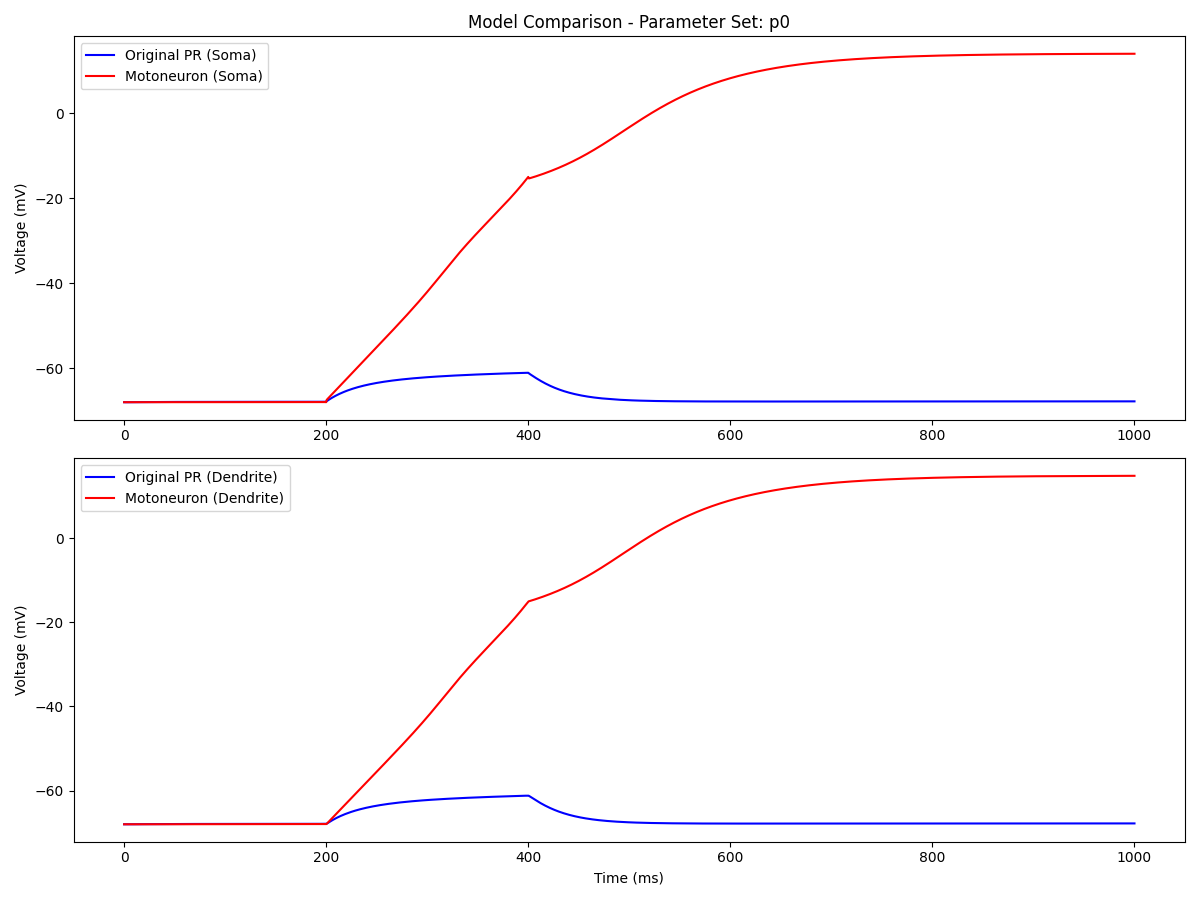
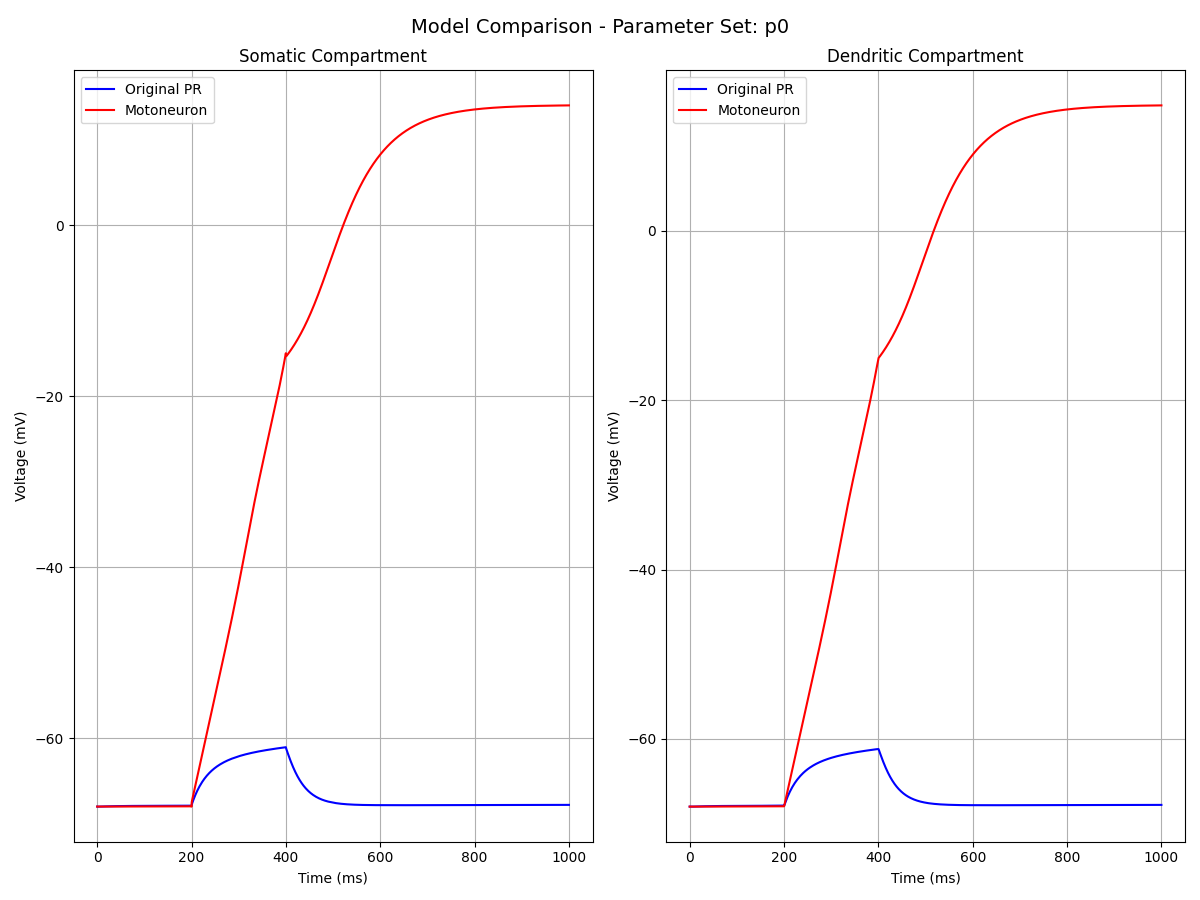
Comparison on default parameter and Motoneuron

diff --git a/PRmodel_Motoneuron/compare_models.py b/PRmodel_Motoneuron/compare_models.py
@@ -9,6 +9,107 @@ from PRmodel_Diffrax.PinskyRinzel import PinskyRinzel
 from PRmodel_Motoneuron import MotoneuronModel
 
 
+def compare_with_defaults(yaml_file, param_set='20230210_84'):
+    """Compare a motoneuron model with custom parameters to one with default parameters."""
+    # Create motoneuron model with parameters from YAML
+    motoneuron_model = MotoneuronModel(yaml_file=yaml_file, param_set=param_set)
+    
+    # Create a default motoneuron model (no yaml file, use PR defaults)
+    default_model = MotoneuronModel()
+    
+    # Print parameters for comparison
+    print("\nComparison with Default Parameters:")
+    print("-" * 50)
+    print(f"{'Parameter':<20} {'Default':<15} {'Motoneuron':<15}")
+    print("-" * 50)
+    
+    # Get motoneuron parameters
+    motoneuron_params = motoneuron_model.params
+    default_params = default_model.params
+    
+    # Compare key parameters
+    params_to_compare = [
+        ('g_c', default_model.g_c, motoneuron_params['g_c']),
+        ('C_m', default_model.C_m, motoneuron_params['C_m']),
+        ('p', default_model.p, motoneuron_params['p']),
+        ('g_L (soma)', default_model.g_L, motoneuron_params['g_L_soma']),
+        ('g_L (dend)', default_model.g_L, motoneuron_params['g_L_dend']),
+        ('g_Na', default_model.g_Na, motoneuron_params['g_Na']),
+        ('g_DR', default_model.g_DR, motoneuron_params['g_DR']),
+        ('g_Ca', default_model.g_Ca, motoneuron_params['g_Ca']),
+        ('g_AHP', default_model.g_AHP, motoneuron_params['g_AHP']),
+        ('g_C', default_model.g_C, motoneuron_params['g_C']),
+        ('E_L', default_model.E_L, motoneuron_params['E_L']),
+        ('E_Na', default_model.E_Na, motoneuron_params['E_Na']),
+        ('E_K', default_model.E_K, motoneuron_params['E_K']),
+        ('E_Ca', default_model.E_Ca, motoneuron_params['E_Ca']),
+    ]
+    
+    for name, def_val, moto_val in params_to_compare:
+        print(f"{name:<20} {def_val:<15.6f} {moto_val:<15.6f}")
+    
+    # Simulation parameters
+    t_dur = 1000  # ms
+    I_stim = 0.5  # nA
+    stim_start = 200  # ms
+    stim_end = 400  # ms
+    
+    # Run simulations
+    default_sol = default_model.solve(
+        t_dur=t_dur,
+        I_stim=I_stim,
+        stim_start=stim_start,
+        stim_end=stim_end
+    )
+    
+    motoneuron_sol = motoneuron_model.solve(
+        t_dur=t_dur,
+        I_stim=I_stim,
+        stim_start=stim_start,
+        stim_end=stim_end
+    )
+    
+    # Compare spike counts and timing
+    default_spikes = default_model.get_spike_times(default_sol)
+    motoneuron_spikes = motoneuron_model.get_spike_times(motoneuron_sol)
+    
+    print("\nSpiking Behavior:")
+    print(f"Default model: {len(default_spikes)} spikes")
+    print(f"Motoneuron model with {param_set}: {len(motoneuron_spikes)} spikes")
+    
+    # Plot results
+    plt.figure(figsize=(12, 10))
+    
+    # Plot Default model
+    plt.subplot(2, 1, 1)
+    plt.plot(default_sol.ts, default_sol.ys[:, 0], 'g-', label='Default (Soma)')
+    plt.plot(default_sol.ts, default_sol.ys[:, 1], 'g--', label='Default (Dendrite)')
+    plt.xlabel('Time (ms)')
+    plt.ylabel('Voltage (mV)')
+    plt.title('Default Parameters (Pinsky-Rinzel)')
+    plt.axvspan(stim_start, stim_end, alpha=0.2, color='gray', label='Stimulus')
+    plt.legend()
+    plt.grid(True)
+    
+    # Plot Motoneuron model
+    plt.subplot(2, 1, 2)
+    plt.plot(motoneuron_sol.ts, motoneuron_sol.ys[:, 0], 'r-', label='Motoneuron (Soma)')
+    plt.plot(motoneuron_sol.ts, motoneuron_sol.ys[:, 1], 'r--', label='Motoneuron (Dendrite)')
+    plt.xlabel('Time (ms)')
+    plt.ylabel('Voltage (mV)')
+    plt.title(f'Motoneuron Model with {param_set} Parameters')
+    plt.axvspan(stim_start, stim_end, alpha=0.2, color='gray', label='Stimulus')
+    plt.legend()
+    plt.grid(True)
+    
+    plt.suptitle('Comparison of Default vs Motoneuron Parameters', fontsize=14)
+    plt.tight_layout()
+    plt.savefig(f'default_vs_motoneuron_{param_set}.png')
+    plt.show()
+    
+    return default_model, motoneuron_model, default_sol, motoneuron_sol
+
+
 def compare_models(yaml_file, param_set='20230210_84'):
     """
     Compare the original Pinsky-Rinzel model with the motoneuron model.
@@ -83,33 +184,62 @@ def compare_models(yaml_file, param_set='20230210_84'):
     print(f"Motoneuron model: {len(motoneuron_spikes)} spikes")
     
     # Plot results
-    plt.figure(figsize=(12, 7))
+    plt.figure(figsize=(12, 10))
     
-    # Create two subplots - one for soma and one for dendrite
-    plt.subplot(1, 2, 1)
-    plt.plot(original_sol.ts, original_sol.ys[:, 0], 'b-', label='Original PR')
-    plt.plot(motoneuron_sol.ts, motoneuron_sol.ys[:, 0], 'r-', label='Motoneuron')
+    # Plot 1: Original model with soma and dendrite on same graph
+    plt.subplot(2, 1, 1)
+    plt.plot(original_sol.ts, original_sol.ys[:, 0], 'b-', label='Original PR (Soma)')
+    plt.plot(original_sol.ts, original_sol.ys[:, 1], 'b--', label='Original PR (Dendrite)')
     plt.xlabel('Time (ms)')
     plt.ylabel('Voltage (mV)')
-    plt.title('Somatic Compartment')
+    plt.title('Original Pinsky-Rinzel Model')
     plt.axvspan(stim_start, stim_end, alpha=0.2, color='gray', label='Stimulus')
     plt.legend()
     plt.grid(True)
     
-    plt.subplot(1, 2, 2)
-    plt.plot(original_sol.ts, original_sol.ys[:, 1], 'b-', label='Original PR')
-    plt.plot(motoneuron_sol.ts, motoneuron_sol.ys[:, 1], 'r-', label='Motoneuron')
+    # Plot 2: Motoneuron model with soma and dendrite on same graph
+    plt.subplot(2, 1, 2)
+    plt.plot(motoneuron_sol.ts, motoneuron_sol.ys[:, 0], 'r-', label='Motoneuron (Soma)')
+    plt.plot(motoneuron_sol.ts, motoneuron_sol.ys[:, 1], 'r--', label='Motoneuron (Dendrite)')
     plt.xlabel('Time (ms)')
     plt.ylabel('Voltage (mV)')
-    plt.title('Dendritic Compartment')
-    plt.axvspan(stim_start, stim_end, alpha=0.2, color='gray')
+    plt.title(f'Motoneuron Model with {param_set} Parameters')
+    plt.axvspan(stim_start, stim_end, alpha=0.2, color='gray', label='Stimulus')
     plt.legend()
     plt.grid(True)
     
     plt.suptitle('Comparison of Original Pinsky-Rinzel and Motoneuron Models', fontsize=14)
-    
     plt.tight_layout()
     plt.savefig('model_comparison.png')
+    
+    # Create a separate figure comparing soma vs soma and dendrite vs dendrite
+    plt.figure(figsize=(12, 10))
+    
+    # Plot 1: Compare soma traces
+    plt.subplot(2, 1, 1)
+    plt.plot(original_sol.ts, original_sol.ys[:, 0], 'b-', label='Original PR (Soma)')
+    plt.plot(motoneuron_sol.ts, motoneuron_sol.ys[:, 0], 'r-', label='Motoneuron (Soma)')
+    plt.xlabel('Time (ms)')
+    plt.ylabel('Voltage (mV)')
+    plt.title('Comparison of Somatic Compartments')
+    plt.axvspan(stim_start, stim_end, alpha=0.2, color='gray', label='Stimulus')
+    plt.legend()
+    plt.grid(True)
+    
+    # Plot 2: Compare dendrite traces
+    plt.subplot(2, 1, 2)
+    plt.plot(original_sol.ts, original_sol.ys[:, 1], 'b-', label='Original PR (Dendrite)')
+    plt.plot(motoneuron_sol.ts, motoneuron_sol.ys[:, 1], 'r-', label='Motoneuron (Dendrite)')
+    plt.xlabel('Time (ms)')
+    plt.ylabel('Voltage (mV)')
+    plt.title('Comparison of Dendritic Compartments')
+    plt.axvspan(stim_start, stim_end, alpha=0.2, color='gray', label='Stimulus')
+    plt.legend()
+    plt.grid(True)
+    
+    plt.suptitle('Component-wise Comparison of Models', fontsize=14)
+    plt.tight_layout()
+    plt.savefig('component_comparison.png')
     plt.show()
     
     return original_model, motoneuron_model, original_sol, motoneuron_sol
@@ -126,29 +256,32 @@ if __name__ == "__main__":
         print(f"\n\nComparing models with parameter set: {param_set}")
         original_model, motoneuron_model, original_sol, motoneuron_sol = compare_models(yaml_file, param_set)
         
-        # Save a figure with this specific parameter set name
-        plt.figure(figsize=(12, 9))
+        # Save a figure with this specific parameter set name - with soma and dendrite together
+        plt.figure(figsize=(12, 10))
         
-        plt.subplot(1, 2, 1)
-        plt.plot(original_sol.ts, original_sol.ys[:, 0], 'b-', label='Original PR')
-        plt.plot(motoneuron_sol.ts, motoneuron_sol.ys[:, 0], 'r-', label='Motoneuron')
+        # Plot Original PR with soma and dendrite on same graph
+        plt.subplot(2, 1, 1)
+        plt.plot(original_sol.ts, original_sol.ys[:, 0], 'b-', label='Original PR (Soma)')
+        plt.plot(original_sol.ts, original_sol.ys[:, 1], 'b--', label='Original PR (Dendrite)')
         plt.xlabel('Time (ms)')
         plt.ylabel('Voltage (mV)')
-        plt.title('Somatic Compartment')
+        plt.title('Original Pinsky-Rinzel Model')
+        plt.axvspan(stim_start, stim_end, alpha=0.2, color='gray', label='Stimulus')
         plt.legend()
         plt.grid(True)
         
-        plt.subplot(1, 2, 2)
-        plt.plot(original_sol.ts, original_sol.ys[:, 1], 'b-', label='Original PR')
-        plt.plot(motoneuron_sol.ts, motoneuron_sol.ys[:, 1], 'r-', label='Motoneuron')
+        # Plot Motoneuron with soma and dendrite on same graph
+        plt.subplot(2, 1, 2)
+        plt.plot(motoneuron_sol.ts, motoneuron_sol.ys[:, 0], 'r-', label='Motoneuron (Soma)')
+        plt.plot(motoneuron_sol.ts, motoneuron_sol.ys[:, 1], 'r--', label='Motoneuron (Dendrite)')
         plt.xlabel('Time (ms)')
         plt.ylabel('Voltage (mV)')
-        plt.title('Dendritic Compartment')
+        plt.title(f'Motoneuron Model with {param_set} Parameters')
+        plt.axvspan(stim_start, stim_end, alpha=0.2, color='gray', label='Stimulus')
         plt.legend()
         plt.grid(True)
         
-        plt.suptitle(f'Model Comparison - Parameter Set: {param_set}', fontsize=14)
-        
+        plt.suptitle(f'Comparison - Parameter Set: {param_set}', fontsize=14)
         plt.tight_layout()
         plt.savefig(f'model_comparison_{param_set}.png')
         plt.close()  # Close the figure to save memory

diff --git a/PRmodel_Motoneuron/compare_defaults.py b/PRmodel_Motoneuron/compare_defaults.py
@@ -1,0 +1,153 @@
+import os
+import sys
+import matplotlib.pyplot as plt
+import numpy as np
+
+# Add path to allow imports
+sys.path.append(os.path.dirname(os.path.dirname(os.path.abspath(__file__))))
+from PRmodel_Diffrax.PinskyRinzel import PinskyRinzel
+from PRmodel_Motoneuron import MotoneuronModel
+
+def compare_with_defaults(yaml_file, param_set='20230210_84'):
+    """Compare a motoneuron model with custom parameters to one with default parameters."""
+    # Create motoneuron model with parameters from YAML
+    motoneuron_model = MotoneuronModel(yaml_file=yaml_file, param_set=param_set)
+    
+    # Create a default motoneuron model (no yaml file, use PR defaults)
+    default_model = MotoneuronModel()
+    
+    # Print parameters for comparison
+    print("\nComparison with Default Parameters:")
+    print("-" * 50)
+    print(f"{'Parameter':<20} {'Default':<15} {'Motoneuron':<15}")
+    print("-" * 50)
+    
+    # Get motoneuron parameters
+    motoneuron_params = motoneuron_model.params
+    default_params = default_model.params
+    
+    # Compare key parameters
+    params_to_compare = [
+        ('g_c', default_model.g_c, motoneuron_params['g_c']),
+        ('C_m', default_model.C_m, motoneuron_params['C_m']),
+        ('p', default_model.p, motoneuron_params['p']),
+        ('g_L (soma)', default_model.g_L, motoneuron_params['g_L_soma']),
+        ('g_L (dend)', default_model.g_L, motoneuron_params['g_L_dend']),
+        ('g_Na', default_model.g_Na, motoneuron_params['g_Na']),
+        ('g_DR', default_model.g_DR, motoneuron_params['g_DR']),
+        ('g_Ca', default_model.g_Ca, motoneuron_params['g_Ca']),
+        ('g_AHP', default_model.g_AHP, motoneuron_params['g_AHP']),
+        ('g_C', default_model.g_C, motoneuron_params['g_C']),
+        ('E_L', default_model.E_L, motoneuron_params['E_L']),
+        ('E_Na', default_model.E_Na, motoneuron_params['E_Na']),
+        ('E_K', default_model.E_K, motoneuron_params['E_K']),
+        ('E_Ca', default_model.E_Ca, motoneuron_params['E_Ca']),
+    ]
+    
+    for name, def_val, moto_val in params_to_compare:
+        print(f"{name:<20} {def_val:<15.6f} {moto_val:<15.6f}")
+    
+    # Simulation parameters
+    t_dur = 1000  # ms
+    I_stim = 0.5  # nA
+    stim_start = 200  # ms
+    stim_end = 400  # ms
+    
+    # Run simulations
+    default_sol = default_model.solve(
+        t_dur=t_dur,
+        I_stim=I_stim,
+        stim_start=stim_start,
+        stim_end=stim_end
+    )
+    
+    motoneuron_sol = motoneuron_model.solve(
+        t_dur=t_dur,
+        I_stim=I_stim,
+        stim_start=stim_start,
+        stim_end=stim_end
+    )
+    
+    # Compare spike counts and timing
+    default_spikes = default_model.get_spike_times(default_sol)
+    motoneuron_spikes = motoneuron_model.get_spike_times(motoneuron_sol)
+    
+    print("\nSpiking Behavior:")
+    print(f"Default model: {len(default_spikes)} spikes")
+    print(f"Motoneuron model with {param_set}: {len(motoneuron_spikes)} spikes")
+    
+    # Plot results - both soma and dendrite on the same graph for each model
+    plt.figure(figsize=(12, 10))
+    
+    # Plot 1: Default model with soma and dendrite on same graph
+    plt.subplot(2, 1, 1)
+    plt.plot(default_sol.ts, default_sol.ys[:, 0], 'g-', label='Default (Soma)')
+    plt.plot(default_sol.ts, default_sol.ys[:, 1], 'g--', label='Default (Dendrite)')
+    plt.xlabel('Time (ms)')
+    plt.ylabel('Voltage (mV)')
+    plt.title('Default Parameters (Pinsky-Rinzel)')
+    plt.axvspan(stim_start, stim_end, alpha=0.2, color='gray', label='Stimulus')
+    plt.legend()
+    plt.grid(True)
+    
+    # Plot 2: Motoneuron model with soma and dendrite on same graph
+    plt.subplot(2, 1, 2)
+    plt.plot(motoneuron_sol.ts, motoneuron_sol.ys[:, 0], 'r-', label='Motoneuron (Soma)')
+    plt.plot(motoneuron_sol.ts, motoneuron_sol.ys[:, 1], 'r--', label='Motoneuron (Dendrite)')
+    plt.xlabel('Time (ms)')
+    plt.ylabel('Voltage (mV)')
+    plt.title(f'Motoneuron Model with {param_set} Parameters')
+    plt.axvspan(stim_start, stim_end, alpha=0.2, color='gray', label='Stimulus')
+    plt.legend()
+    plt.grid(True)
+    
+    plt.suptitle('Comparison of Default vs Motoneuron Parameters', fontsize=14)
+    plt.tight_layout()
+    plt.savefig(f'default_vs_motoneuron_{param_set}.png')
+    
+    # Create a figure comparing compartments
+    plt.figure(figsize=(12, 10))
+    
+    # Plot 1: Compare soma traces
+    plt.subplot(2, 1, 1)
+    plt.plot(default_sol.ts, default_sol.ys[:, 0], 'g-', label='Default Parameters')
+    plt.plot(motoneuron_sol.ts, motoneuron_sol.ys[:, 0], 'r-', label=f'Motoneuron {param_set}')
+    plt.xlabel('Time (ms)')
+    plt.ylabel('Voltage (mV)')
+    plt.title('Comparison of Somatic Compartments')
+    plt.axvspan(stim_start, stim_end, alpha=0.2, color='gray')
+    plt.legend()
+    plt.grid(True)
+    
+    # Plot 2: Compare dendrite traces
+    plt.subplot(2, 1, 2)
+    plt.plot(default_sol.ts, default_sol.ys[:, 1], 'g-', label='Default Parameters')
+    plt.plot(motoneuron_sol.ts, motoneuron_sol.ys[:, 1], 'r-', label=f'Motoneuron {param_set}')
+    plt.xlabel('Time (ms)')
+    plt.ylabel('Voltage (mV)')
+    plt.title('Comparison of Dendritic Compartments')
+    plt.axvspan(stim_start, stim_end, alpha=0.2, color='gray')
+    plt.legend()
+    plt.grid(True)
+    
+    plt.suptitle('Default vs Motoneuron Parameters: Compartment-wise Comparison', fontsize=14)
+    plt.tight_layout()
+    plt.savefig(f'default_vs_motoneuron_compartments_{param_set}.png')
+    
+    plt.show()
+    
+    return default_model, motoneuron_model, default_sol, motoneuron_sol
+    
+
+if __name__ == "__main__":
+    # Path to the YAML file
+    yaml_file = "PRmodel_Motoneuron/motoneuron.yaml"
+    
+    # Compare default parameters with each parameter set
+    param_sets = ['20230210_84', '20230210_8', 'test0', 'p0']
+    
+    for param_set in param_sets:
+        print(f"\n\nComparing default parameters with parameter set: {param_set}")
+        default_model, motoneuron_model, default_sol, motoneuron_sol = compare_with_defaults(yaml_file, param_set)
+    
+    print("\nComplete!")

diff --git a/PRmodel_Motoneuron/run_motoneuron.py b/PRmodel_Motoneuron/run_motoneuron.py
@@ -116,7 +116,7 @@ def run_spike_adaptation(yaml_file, param_set='20230210_84'):
 
 if __name__ == "__main__":
     # Path to the YAML file
-    yaml_file = "../motoneuron.yaml"
+    yaml_file = "PRmodel_Motoneuron/motoneuron.yaml"
     
     # Run the F-I curve analysis
     currents, firing_rates, expected_rates = run_f_i_curve(yaml_file)
